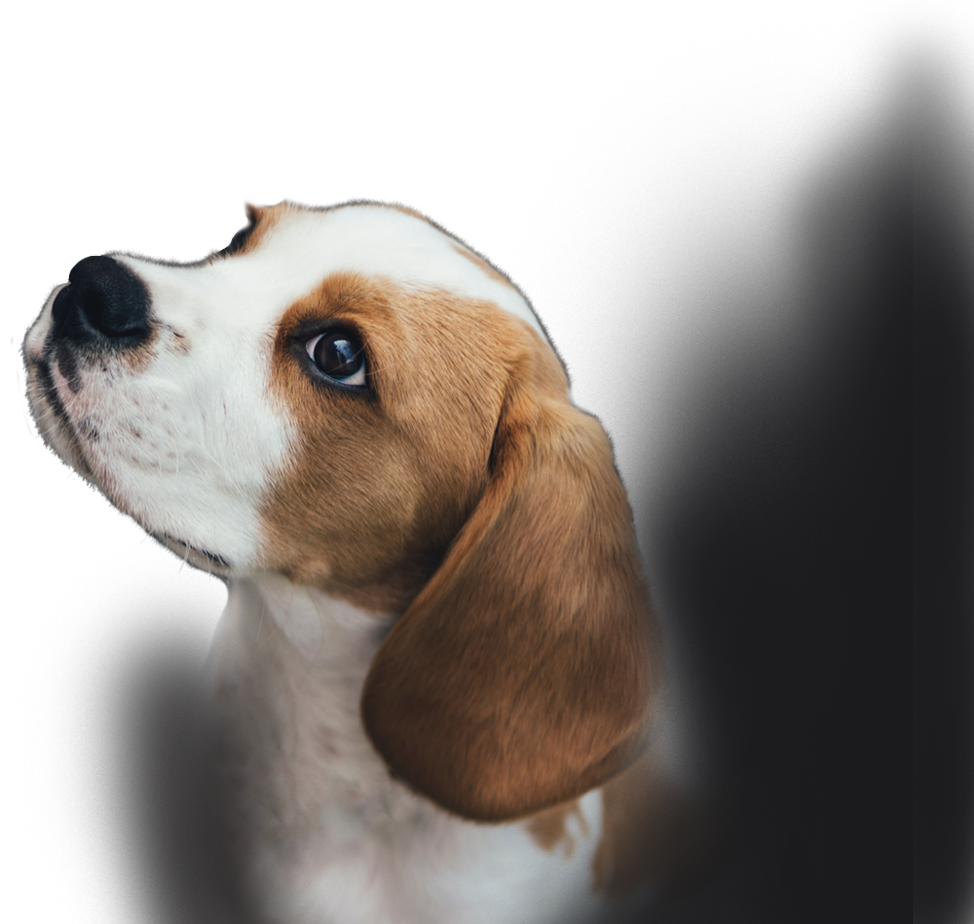
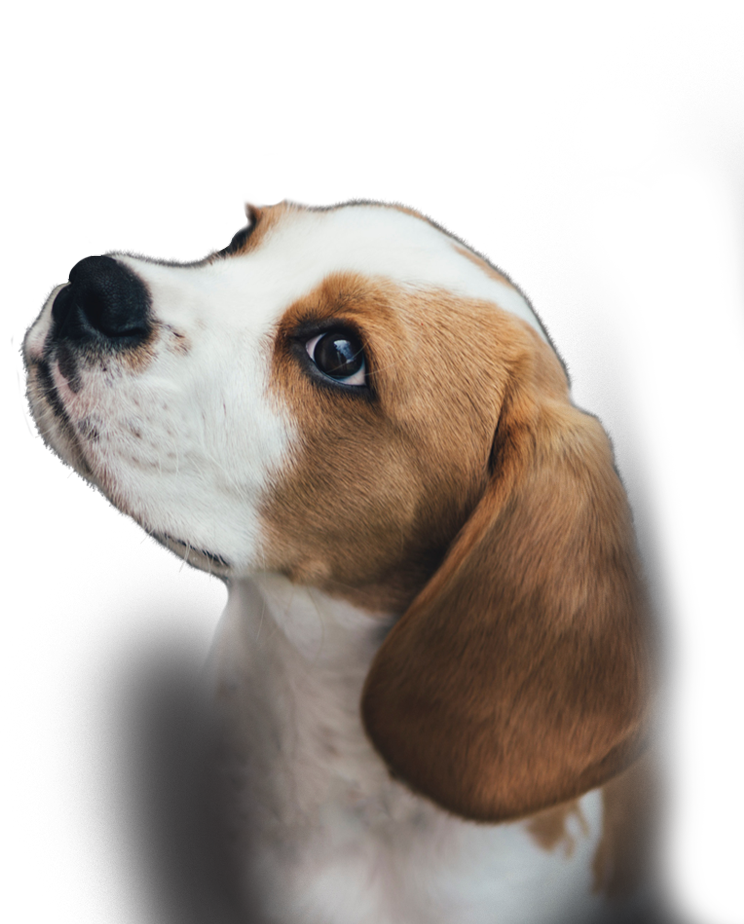
main menu pixel perfect step 1

diff --git a/less/blocks/header.less b/less/blocks/header.less
@@ -3,7 +3,7 @@
   background-color: @bgr-black;
   background-repeat: no-repeat;
   background-size: cover;
-  padding-top: 30px;
+  padding-top: 47px;
 }
 
 .header__wrapper {
@@ -26,73 +26,79 @@
 
 .header__about-title {
   padding-right: 13px;
-  }
+}
 
 .header__about-text {
   font-size: 13px;
   line-height: 16px;
-  letter-spacing: .5px;
+  letter-spacing: 0.5px;
   color: @text-light-grey;
 }
-
 @media @tablet-widths {
   .header__container {
     margin-top: 40px;
   }
+
   .header__about {
     margin-top: 0;
   }
+
   .header__about-container {
     width: 450px;
     margin: 40px auto;
   }
 }
-
-@media @desktop-widths{
+@media @desktop-widths {
   .header {
-    min-height: 924px;
-    position: relative;
+    min-height: 922px;
   }
+
   .header__wrapper {
     display: flex;
     flex-wrap: wrap;
     justify-content: space-between;
-    width: 1200px;
+    position: relative;
+    width: 1195px;
   }
 
   .header__container {
-    width: 700px;
+    width: 650px;
     margin-top: 0;
   }
-.header__title {
-  font-size: 32px;
-}
-.header__text {
-  font-size: 13px;
-}
-.header__about {
-  width: 420px;
-  margin-top: 240px;
-  text-align: left;
-}
 
-.header__about:after {
-  content: "";
-background-image: url("../img/head-pet.png");
-position: absolute;
-right: 0;
-top: 0;
-width: 974px;
-height: 924px;
-}
-.header__about-container {
-  margin: 0;
-}
+  .header__title {
 
-.header__about-text {
-  font-size: 15px;
-  line-height: 24px;
-  margin-bottom: 25px;
+  }
 
-}
+  .header__text {
+    font-size: 13px;
+    letter-spacing: 1.5px;
+  }
+
+  .header__about {
+    width: 420px;
+    margin-top: 240px;
+    text-align: left;
+  }
+
+  .header__about:after {
+    content: "";
+    background-image: url("../img/head-pet.png");
+    background-repeat: no-repeat;
+    position: absolute;
+    right: -10%;
+    top: -8%;
+    width: 744px;
+    height: 924px;
+  }
+
+  .header__about-container {
+    margin: 0;
+  }
+
+  .header__about-text {
+    font-size: 15px;
+    line-height: 24px;
+    margin-bottom: 25px;
+  }
 }

diff --git a/css/style.css b/css/style.css
@@ -210,8 +210,8 @@ h1 {
 }
 @media (min-width: 1250px) {
   h1 {
-    font-size: 53px;
-    line-height: 57px;
+    font-size: 32px;
+    letter-spacing: 2px;
   }
 }
 h2 {
@@ -251,7 +251,7 @@ h3 {
   background-color: #1d1d1e;
   background-repeat: no-repeat;
   background-size: cover;
-  padding-top: 30px;
+  padding-top: 47px;
 }
 .header__wrapper {
   width: 280px;
@@ -285,7 +285,7 @@ h3 {
 .header__about-text {
   font-size: 13px;
   line-height: 16px;
-  letter-spacing: .5px;
+  letter-spacing: 0.5px;
   color: #c5c5c5;
 }
 @media (min-width: 768px) {
@@ -302,24 +302,22 @@ h3 {
 }
 @media (min-width: 1250px) {
   .header {
-    min-height: 924px;
-    position: relative;
+    min-height: 922px;
   }
   .header__wrapper {
     display: flex;
     flex-wrap: wrap;
     justify-content: space-between;
-    width: 1200px;
+    position: relative;
+    width: 1195px;
   }
   .header__container {
-    width: 700px;
+    width: 650px;
     margin-top: 0;
-  }
-  .header__title {
-    font-size: 32px;
   }
   .header__text {
     font-size: 13px;
+    letter-spacing: 1.5px;
   }
   .header__about {
     width: 420px;
@@ -329,10 +327,11 @@ h3 {
   .header__about:after {
     content: "";
     background-image: url("../img/head-pet.png");
+    background-repeat: no-repeat;
     position: absolute;
-    right: 0;
-    top: 0;
-    width: 974px;
+    right: -10%;
+    top: -8%;
+    width: 744px;
     height: 924px;
   }
   .header__about-container {
@@ -487,6 +486,7 @@ h3 {
   }
   .menu .menu__link {
     font-size: 15px;
+    line-height: 24px;
     padding-top: 25px;
     padding-bottom: 5px;
     padding-right: 0;
@@ -498,14 +498,13 @@ h3 {
     opacity: 0.5;
   }
   .menu .menu__wrapper {
-    width: 500px;
+    width: 488px;
     padding-top: 0;
     padding-bottom: 0;
     border-top: none;
     border-bottom: none;
     display: block;
     margin: 0 auto;
-    margin-bottom: 45px;
   }
   .menu .menu__wrapper--opacity {
     opacity: 0.8;

diff --git a/less/blocks/menu.less b/less/blocks/menu.less
@@ -163,6 +163,7 @@
 
     .menu__link {
       font-size: 15px;
+      line-height: 24px;
       padding-top: 25px;
       padding-bottom: 5px;
       padding-right: 0;
@@ -175,14 +176,13 @@
     }
 
     .menu__wrapper {
-      width: 500px;
+      width: 488px;
       padding-top: 0;
       padding-bottom: 0;
       border-top: none;
       border-bottom: none;
       display: block;
       margin: 0 auto;
-      margin-bottom: 45px;
       &--opacity {
         opacity: 0.8;
       }

diff --git a/index.html b/index.html
@@ -12,7 +12,7 @@
   <header class="header">
     <div class="header__wrapper">
       <div class="header__container">
-        <h1 class="header__title">Cozy house</h1>
+        <h1 class="header__title">Cozy House</h1>
         <p class="header__text">Shelter for pets in Boston</p>
       </div>
       <nav class="menu menu--closed menu--nojs">

diff --git a/less/scaffolding.less b/less/scaffolding.less
@@ -22,8 +22,8 @@ h1 {
     line-height: 50px;
   }
   @media @desktop-widths {
-    font-size: 53px;
-    line-height: 57px;
+    font-size: 32px;
+    letter-spacing: 2px;
   }
 }
 
